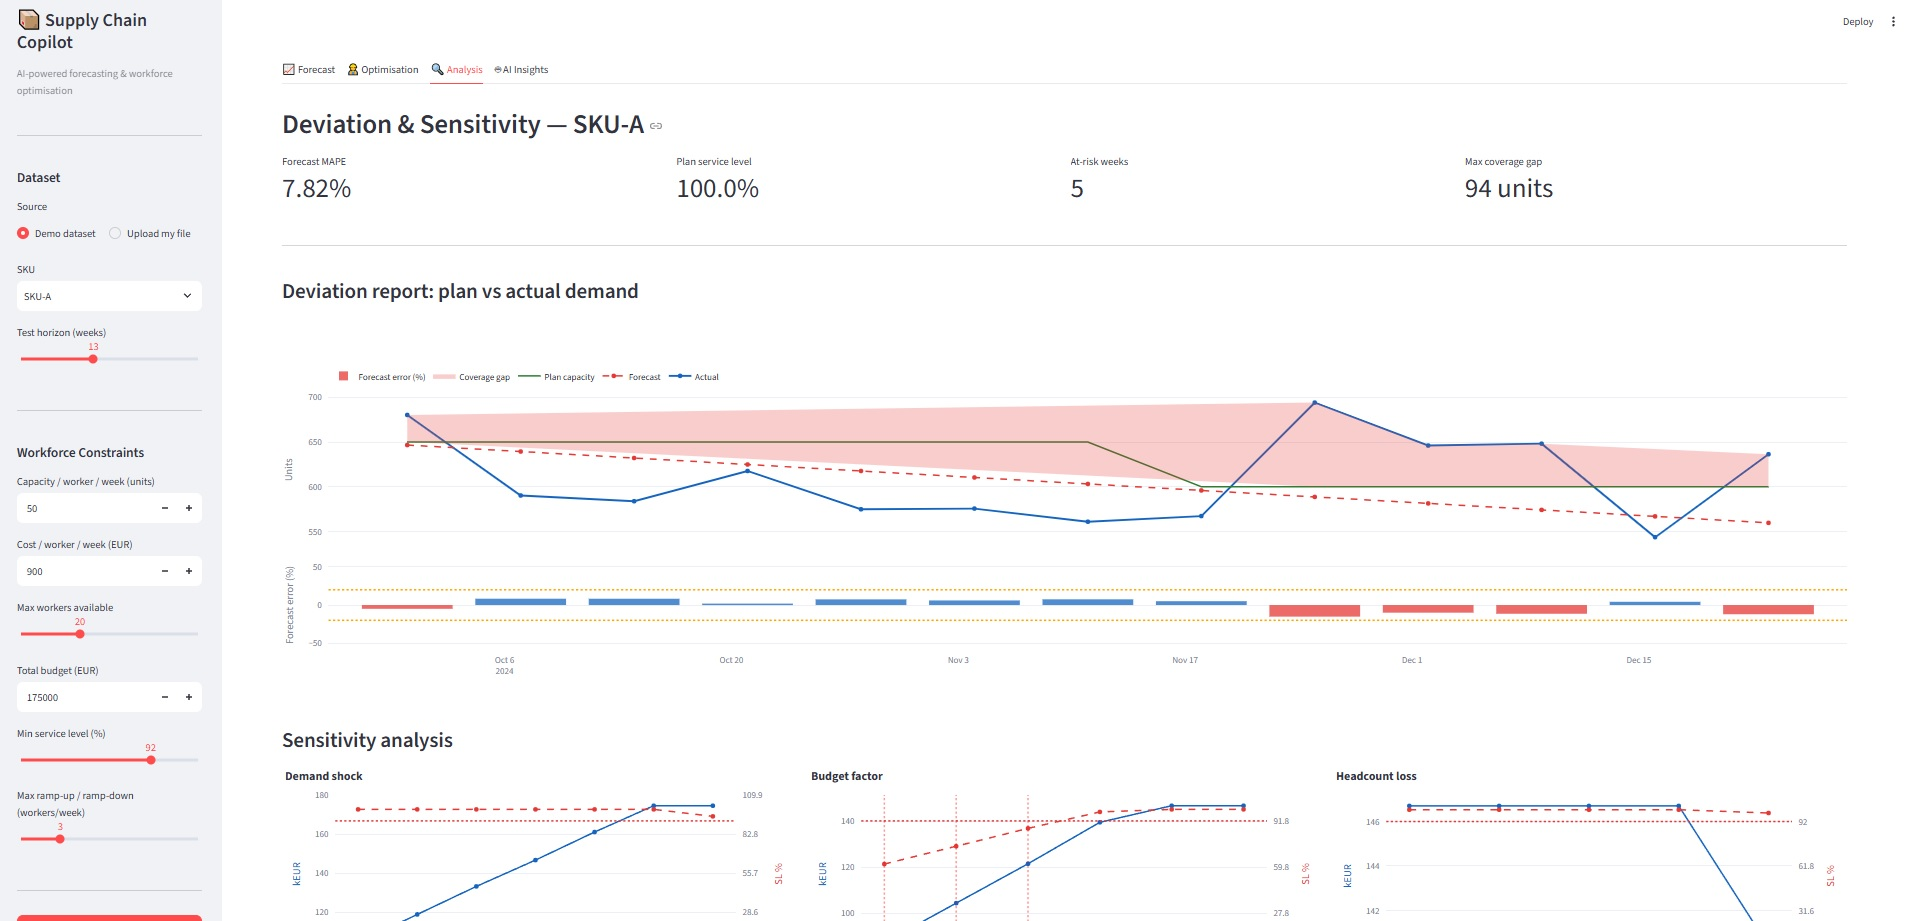
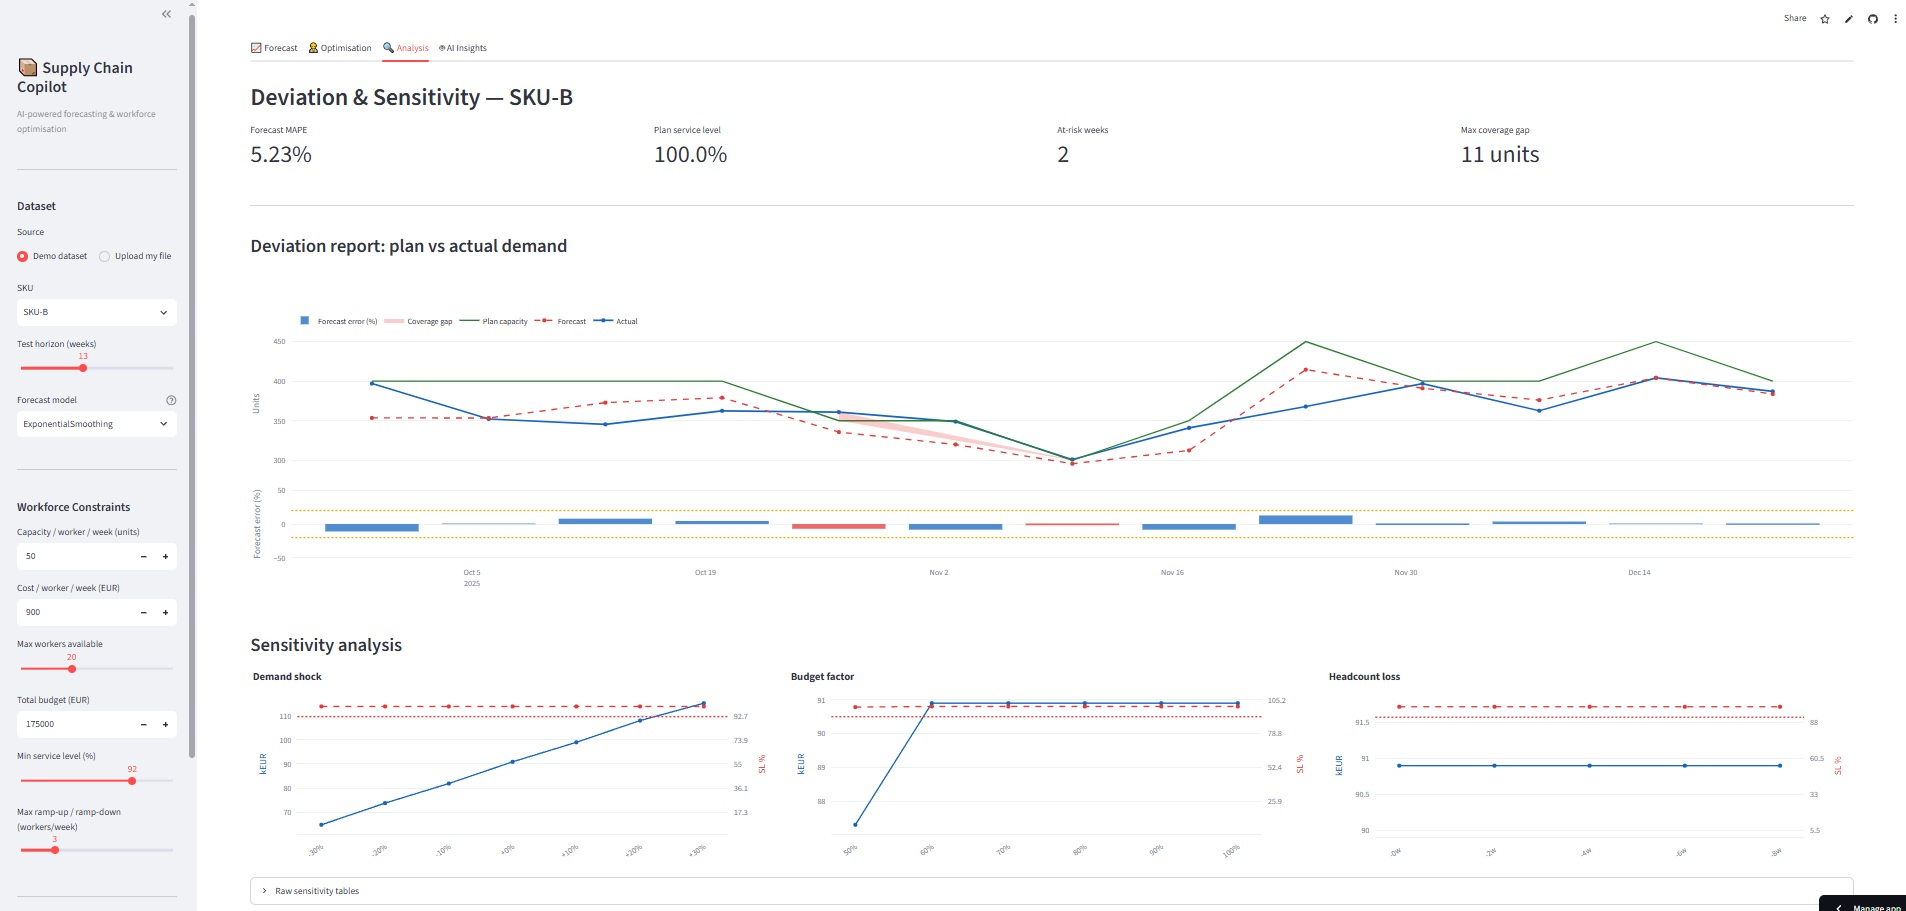
Update dashboard screenshots for the 3-year demo dataset
Replace the forecast, optimisation and analysis screenshots with captures
of the current dashboard (SKU-B, seasonal Holt-Winters, model selector),
crop the blank area under the forecast capture, and describe the shown
figures in the README captions (EN + FR).

diff --git a/README.md b/README.md
@@ -10,7 +10,7 @@
 
 ![Workforce optimisation tab of the dashboard](docs/images/optimisation.jpg)
 
-<sub>Interactive dashboard (demo dataset): optimised staffing plan versus flat and reactive baselines.</sub>
+<sub>Interactive dashboard (demo dataset, SKU-B): optimised staffing plan versus flat and reactive baselines — 90,900 EUR, 14,400 EUR below flat staffing, at 100 % service level.</sub>
 
 ## The problem
 
@@ -52,7 +52,7 @@ The seasonal models land close to the noise built into the data (about 4–6 % M
 
 | Demand forecast | Deviation & sensitivity |
 |---|---|
-| ![Forecast tab](docs/images/forecast.jpg) | ![Analysis tab](docs/images/analysis.jpg) |
+| ![Forecast tab: Holt-Winters on SKU-B, 5.2 % MAPE](docs/images/forecast.jpg) | ![Analysis tab: deviation report and sensitivity charts for SKU-B](docs/images/analysis.jpg) |
 
 ### AI insights
 
@@ -111,7 +111,7 @@ Each stage also runs on its own from the command line (`run_forecast.py`, `run_o
 
 ![Onglet d'optimisation des effectifs du dashboard](docs/images/optimisation.jpg)
 
-<sub>Dashboard interactif (jeu de démo) : plan d'effectifs optimisé face aux références « constant » et « réactif ».</sub>
+<sub>Dashboard interactif (jeu de démo, SKU-B) : plan d'effectifs optimisé face aux références « constant » et « réactif » — 90 900 EUR, soit 14 400 EUR de moins qu'un effectif constant, à 100 % de niveau de service.</sub>
 
 ### Le problème
 
@@ -153,7 +153,7 @@ Les modèles saisonniers s'approchent du bruit intégré aux données (environ 4
 
 | Prévision de la demande | Écarts & sensibilité |
 |---|---|
-| ![Onglet Forecast](docs/images/forecast.jpg) | ![Onglet Analysis](docs/images/analysis.jpg) |
+| ![Onglet Forecast : Holt-Winters sur SKU-B, MAPE de 5,2 %](docs/images/forecast.jpg) | ![Onglet Analysis : rapport d'écarts et analyses de sensibilité pour SKU-B](docs/images/analysis.jpg) |
 
 #### Analyses IA
 
